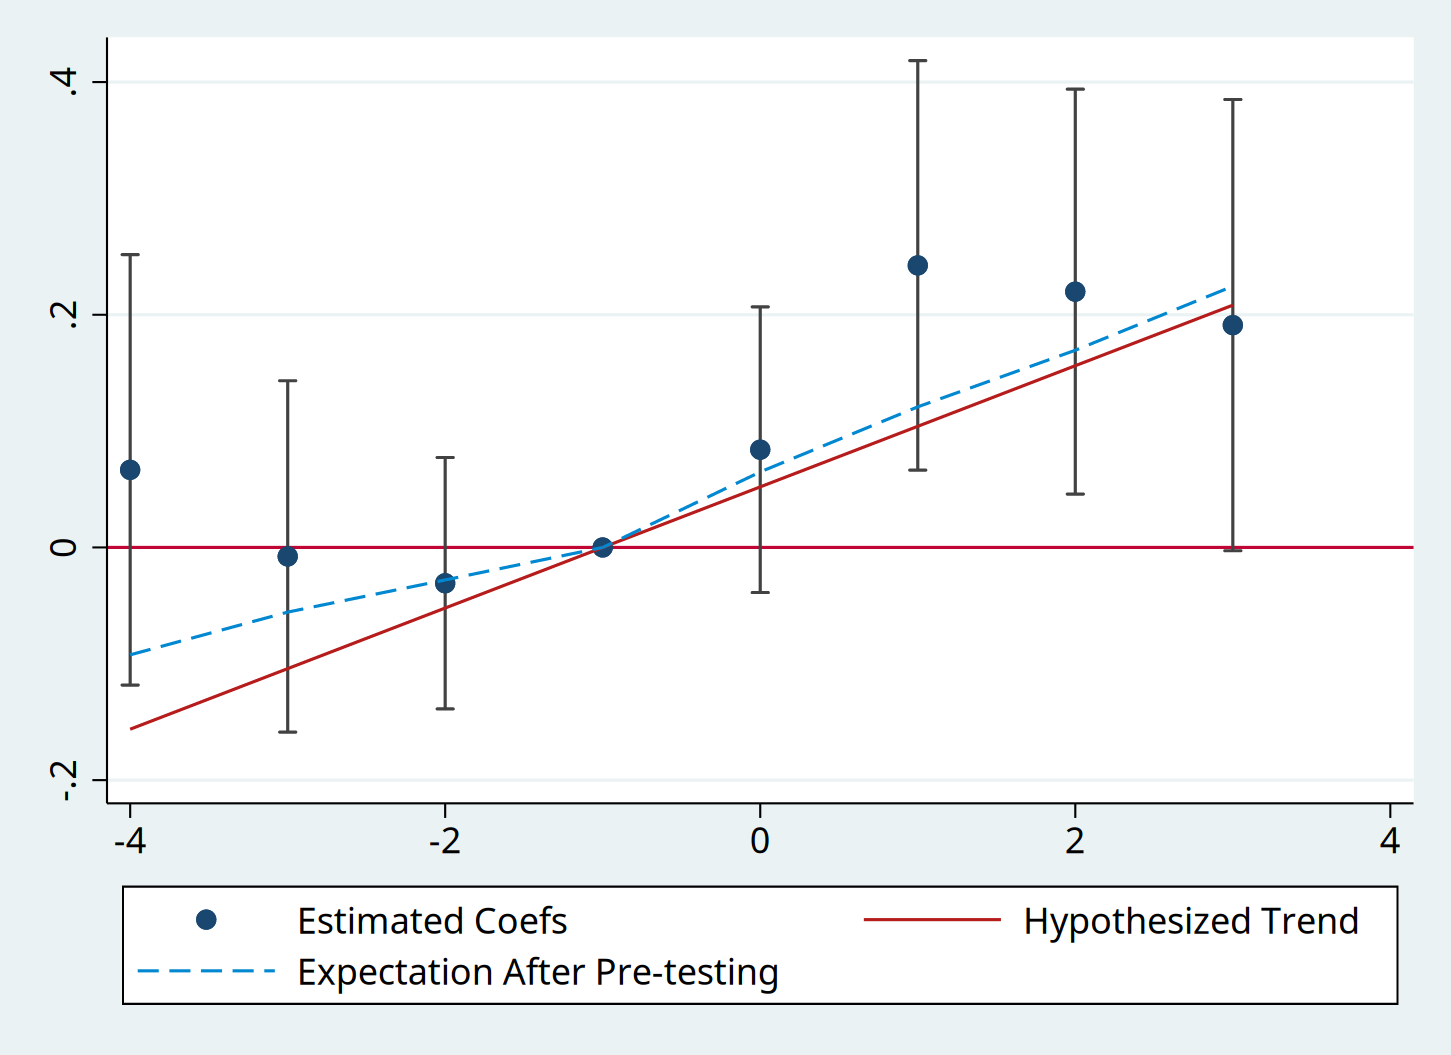
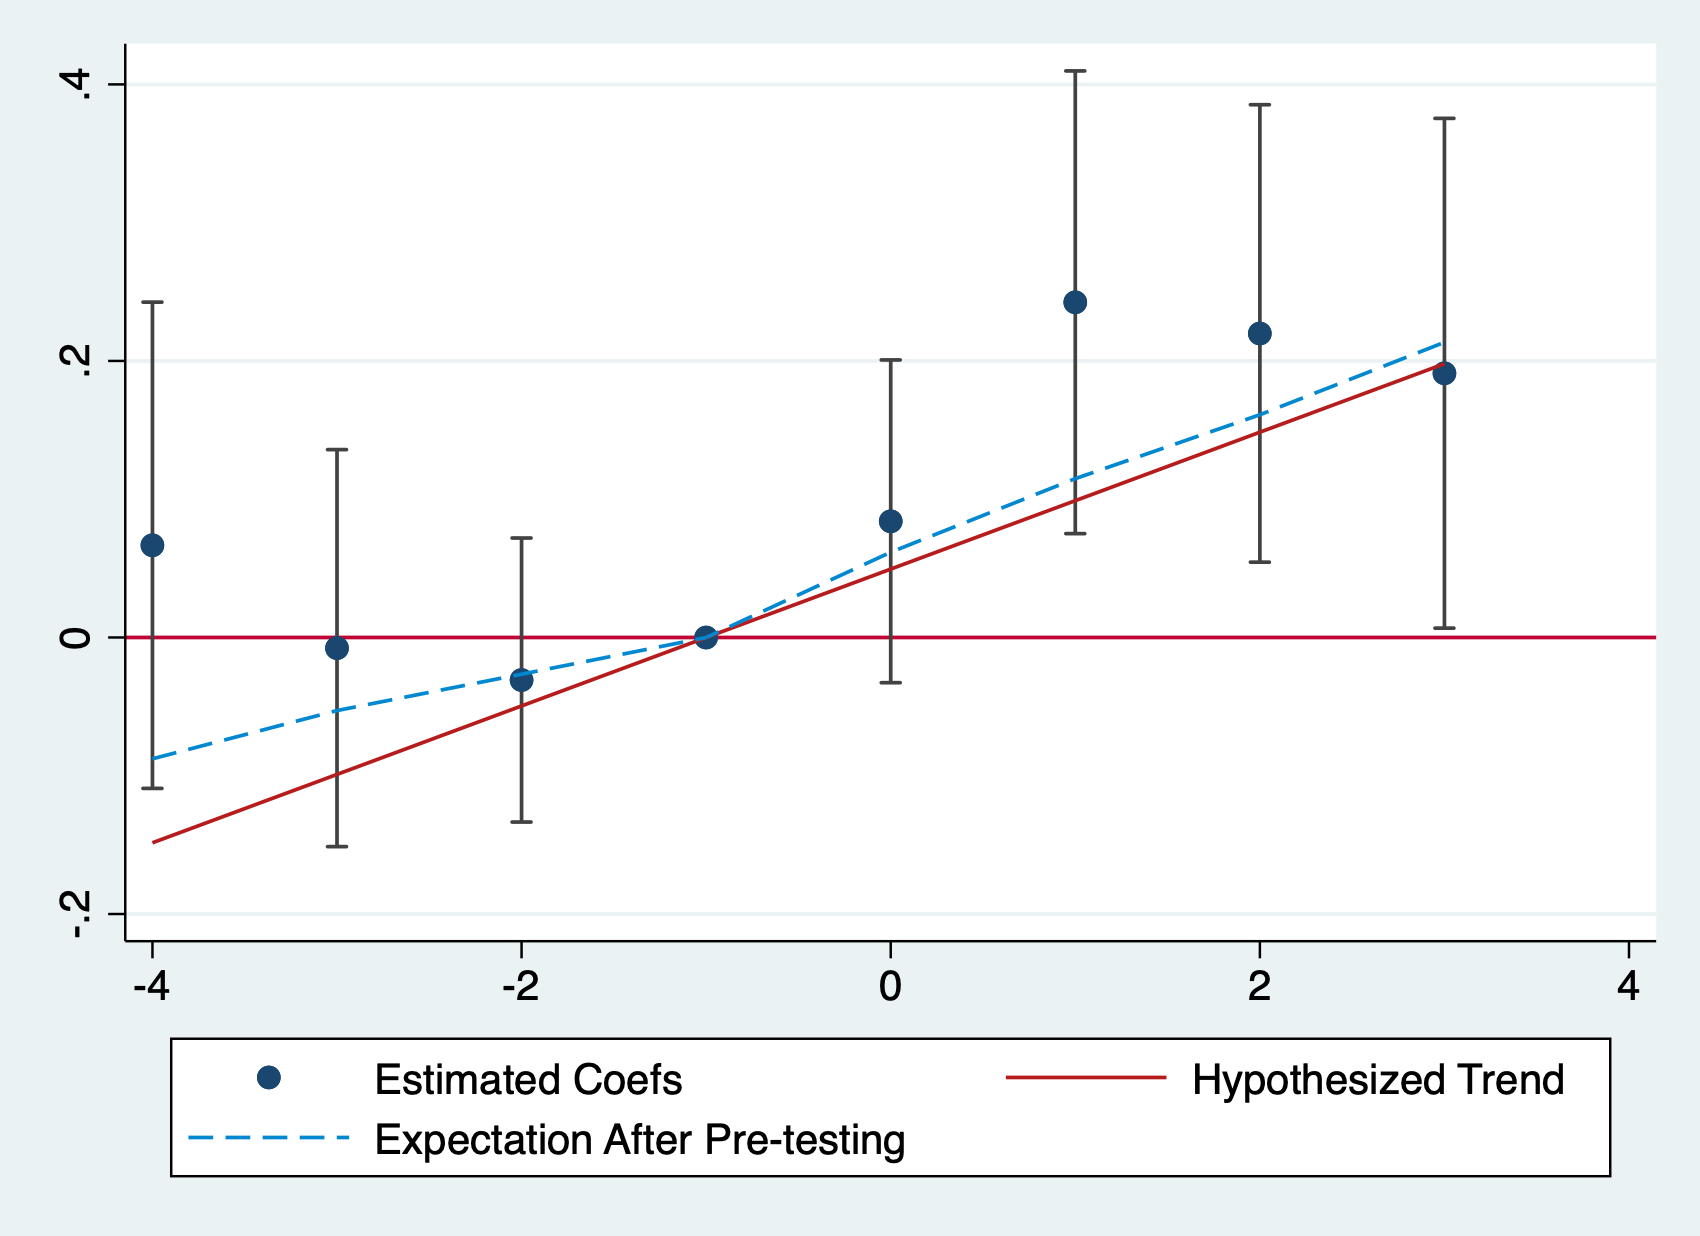
Updated the README to be more intuitive

diff --git a/README.md b/README.md
@@ -40,39 +40,45 @@ this:
 
 ### Load the example data
 
-Next we load the estimation results used for the event-plot, namely the
-coefficients (*beta*), the variance-covariance matrix (*sigma*). In this
-case, these coefficients come from a two-way fixed effects regression,
-but the pretrends package can accommodate an event-study from any
-asymptotically normal estimator, including
-[Callaway and Sant’Anna (2020)](https://www.sciencedirect.com/science/article/pii/S0304407620303948?dgcid=author)
-and [Sun and Abraham (2020)](https://www.sciencedirect.com/science/article/abs/pii/S030440762030378X).
+We first load the dataset used by He and Wang. 
 
 ```stata
-mata {
-    st_matrix("beta",  PreTrendsExampleBeta())
-    st_matrix("sigma", PreTrendsExampleSigma())
-}
-matlist beta'
-*              |        r1
-* -------------+----------
-*           c1 |  .0667031
-*           c2 | -.0077018
-*           c3 | -.0307691
-*           c4 |  .0840307
-*           c5 |  .2424418
-*           c6 |   .219879
-*           c7 |  .1910925
+use "https://media.githubusercontent.com/media/jonathandroth/stata-pretrends/main/data/workfile_AEJ.dta", clear
 ```
+
+We then run their regression specification. 
+
+```stata
+reghdfe l_poor_reg_rate Lead_D4_plus Lead_D3 Lead_D2 D0 Lag_D1 Lag_D2 Lag_D3_plus, absorb(v_id year) cluster(v_id)
+```
+
+which yields the following results
+
+```stata
+             |               Robust
+l_poor_reg~e | Coefficient  std. err.      t    P>|t|     [95% conf. interval]
+-------------+----------------------------------------------------------------
+Lead_D4_plus |   .0667032   .0897108     0.74   0.458    -.1099686    .2433749
+     Lead_D3 |  -.0077018   .0732436    -0.11   0.916     -.151944    .1365404
+     Lead_D2 |  -.0307691   .0523996    -0.59   0.558    -.1339621     .072424
+          D0 |   .0840307   .0595518     1.41   0.159    -.0332475    .2013088
+      Lag_D1 |   .2424418   .0853721     2.84   0.005     .0743146    .4105691
+      Lag_D2 |    .219879    .084391     2.61   0.010     .0536838    .3860741
+ Lag_D3_plus |   .1910925   .0940472     2.03   0.043     .0058809    .3763042
+       _cons |   1.478639   .0771617    19.16   0.000      1.32668    1.630597
+
+```
+
+In this case, these coefficients come from a two-way fixed effects regression using `reghdfe`. However, the `pretrends` package will work with any package that produces an event-study from any
+asymptotically normal estimator, including
+[Callaway and Sant’Anna (2020)](https://www.sciencedirect.com/science/article/pii/S0304407620303948?dgcid=author)
+and [Sun and Abraham (2020)](https://www.sciencedirect.com/science/article/abs/pii/S030440762030378X), so long as the resulting estimates and coefficients are saved in `e(b)` and `e(V)`. If one is using a command that does not export an `e(b)` and `e(V)`, one can instead provide the coefficients and covariance matrix directly via the `beta()` and `sigma()` options.
+
 
 ### Using the package
 
-First, the user must specify the coefficient vector, variance-covariance
-matrix, and the sections therein that correspond to the pre and post periods.
-By default, the package tries to use `e(b)` and `e(V)`, which would be
-populated after most estimation commands.
 
-Second, the user has two options:
+The package has two subcommands:
 
 1. The `power` sub-command calculates the slope of a linear violation
   of parallel trends that a pre-trends test would detect a specified
@@ -84,17 +90,22 @@ Second, the user has two options:
   option, or provide an arbitrary violation of parallel trends via the `delta()` option. 
 
 Let's illustrate the first use case:
+
 ```stata
-pretrends power 0.5, numpre(3) b(beta) v(sigma)
-* Slope for 50% power =  .0520662
+pretrends power 0.5, pre(1/3) post(4/7)
+
+* Slope for 50% power =  .0494932
 
 return list
 * scalars:
-*               r(slope) =  .0520662478209672
+*               r(slope) =  .0494932155202119
 *               r(Power) =  .5
 ```
 
-To visualize the linear trend against which pre-tests have 50 percent power:
+In the command above, the option `pre(1/3)` tells the package that the pre-treatment event-study coefficients are in positions 1 through 3 in our regression results. (The package assumes that the period before the event-study is normalized to zero and omitted from the regression.) Likewise, the option `post(1/4)` tells the package that the post-treatment coefficients are in positions 4 through 7. The results of the command tells us that if there was a linear violation of parallel trends with slope 0.049, then we would have 50% power to detect it (where we say it's "detected" if there is a significant pre-trend coefficient). If we want wanted a different power threshold, say 80%, we would change `power 0.5` to `power 0.8` in the command above.  
+
+
+Next, we illustrate how to visualize violations of parallel trends using the package's second subcommand. For simplicitly, lets visualize the linear trend against which pre-tests have 50 percent power that we just calculated. This is just for illustration --- you can visualize any violation that you want, and should choose an economically relevant one. To do this, we run the command:
 
 ```stata
 pretrends, numpre(3) b(beta) v(sigma) slope(`r(slope)')
@@ -102,7 +113,10 @@ pretrends, numpre(3) b(beta) v(sigma) slope(`r(slope)')
 
 ![Power50](doc/plot50.png)
 
-Note the `coefplot` package is required; if the coefplot package is not
+This tells Stata to visualize a linear violation of parallel trends with slope `r(slope)`, i.e. the value calculated by the previous command (0.049). If you wanted to visualize a linear violation with slope 5, you'd just specify `slope(5)`. The resulting plot super-imposes the conjectured linear violation of parallel trends on the event-plot in red. It also shows in dashed blue what we'd expect the coefficients to look like on average *conditional on not finding a significant pre-trend* if in fact that truth was the hypothesized red line. In the plot above, both the red line and blue line are contained within all of the confidence intervals (with the exception of one pre-period for the red line), so the hypothesized trend seems somewhat plausible. 
+
+
+Note that to create the plot above, the `coefplot` package is required; if the coefplot package is not
 installed or not available, the user can add option `nocoefplot` to
 skip the visualization. In either case the event study data is saved in
 `r()`, along several useful statistics about the power of the pre-test
@@ -111,23 +125,22 @@ against the hypothesized trend.
 ```stata
 * data for visualization
 matlist r(results)
-*              |         t    betahat         lb         ub  deltatrue  meanAft~g
-* -------------+------------------------------------------------------------------
-*           r1 |        -4   .0667031  -.1182677    .251674  -.1561987  -.0923171
-*           r2 |        -3  -.0077018  -.1587197   .1433162  -.1041325  -.0555576
-*           r3 |        -2  -.0307691  -.1388096   .0772715  -.0520662  -.0279117
-*           r4 |        -1          0          0          0          0          0
-*           r5 |         0   .0840307  -.0387567    .206818   .0520662   .0649147
-*           r6 |         1   .2424418   .0664168   .4184668   .1041325   .1208691
-*           r7 |         2    .219879   .0458768   .3938812   .1561987   .1694932
-*           r8 |         3   .1910925  -.0028194   .3850045    .208265   .2245753
+*          r1 |        -4   .0667032  -.1091268   .2425331  -.1484796   -.087755 
+*          r2 |        -3  -.0077018  -.1512567   .1358531  -.0989864   -.052812 
+*          r3 |        -2  -.0307691  -.1334704   .0719323  -.0494932  -.0265324 
+*          r4 |        -1          0          0          0          0          0 
+*          r5 |         0   .0840307  -.0326887     .20075   .0494932   .0617067 
+*          r6 |         1   .2424418   .0751157    .409768   .0989864   .1148959 
+*          r7 |         2    .219879   .0544757   .3852823   .1484796   .1611171 
+*          r8 |         3   .1910925   .0067634   .3754217   .1979729   .2134771 
+
 
 return list
 * scalars:
-*                  r(LR) =  .1057053243787036
-*               r(Bayes) =  .5690176871738699
-*               r(Power) =  .5000000000006959
-*               r(slope) =  .0520662478209672
+*                  r(LR) =  .1016996725963556
+*               r(Bayes) =  .5690176868657252
+*               r(Power) =  .5000000000010103
+*               r(slope) =  .0494932155202119
 *
 * macros:
 *    r(PreTrendsResults) : "PreTrendsResults"
@@ -137,30 +150,25 @@ return list
 *               r(delta) :  1 x 8
 ```
 
+An explanation of the returned results is as follows: 
+
 - **r(results)** The data used to make the event plot. Note the column
   `meanAfterPretesting`, which is also plotted, shows the expected value
   of the coefficients conditional on passing the pre-test under the
-  hypothesized trend.
+  hypothesized trend (i.e. what's shown in the blue dashed line).
 
 - **r(Power)** The probability that we would find a significant pre-trend
   under the hypothesized pre-trend. (This is 0.50, up to numerical
-  precision error, by construction in our example).
+  precision error, by construction in our example). If you hypothesize a different trend, it may be something different.
 
 - **r(BF)** (Bayes Factor) The ratio of the probability of "passing" the
   pre-test under the hypothesized trend relative to under parallel
-  trends.
+  trends. Here, the probability of passing the pre-test under the hypothesized trend is about half as likely (56%) as it is under parallel trends.
 
-- **r(LR)** (Likelihood Ratio) The ratio of the likelihood of the observed
+- **r(LR)** (Likelihood Ratio) The ratio of the likelihood of the observed pre-treatment
   coefficients under the hypothesized trend relative to under parallel
-  trends.
+  trends. Here, the realization of the pre-trends is about 1/10th as likely under the hypothesized trend as under parallel trends.
 
-The package can also compute the above in one step:
-
-```stata
-pretrends, numpre(3) b(beta) v(sigma) power(0.5) nocoefplot
-matlist r(results)
-return list
-```
 
 Last, although our example has focused on a linear violation of parallel
 trends, the package allows the user to input an arbitrary non-linear
@@ -169,7 +177,7 @@ analysis from a quadratic trend.
 
 ```stata
 mata st_matrix("deltaquad", 0.024 * ((-4::3) :- (-1)):^2)
-pretrends, numpre(3) b(beta) v(sigma) deltatrue(deltaquad) coefplot
+pretrends, pre(1/3) post(4/7) deltatrue(deltaquad) coefplot
 ```
 
 ![Power50](doc/plotQuad.png)
@@ -178,21 +186,22 @@ pretrends, numpre(3) b(beta) v(sigma) deltatrue(deltaquad) coefplot
 matlist r(results)
 *              |         t    betahat         lb         ub  deltatrue  meanAft~g
 * -------------+------------------------------------------------------------------
-*           r1 |        -4   .0667031  -.1182677    .251674       .216   .1184861
-*           r2 |        -3  -.0077018  -.1587197   .1433162       .096    .040358
-*           r3 |        -2  -.0307691  -.1388096   .0772715       .024   .0040393
-*           r4 |        -1          0          0          0          0          0
-*           r5 |         0   .0840307  -.0387567    .206818       .024   .0093079
-*           r6 |         1   .2424418   .0664168   .4184668       .096    .072993
-*           r7 |         2    .219879   .0458768   .3938812       .216   .2004382
-*           r8 |         3   .1910925  -.0028194   .3850045       .384   .3617779
+          r1 |        -4   .0667032  -.1091268   .2425331       .216   .1157555 
+          r2 |        -3  -.0077018  -.1512567   .1358531       .096   .0391983 
+          r3 |        -2  -.0307691  -.1334704   .0719323       .024    .003749 
+          r4 |        -1          0          0          0          0          0 
+          r5 |         0   .0840307  -.0326887     .20075       .024   .0089854 
+          r6 |         1   .2424418   .0751157    .409768       .096   .0723966 
+          r7 |         2    .219879   .0544757   .3852823       .216   .2000759 
+          r8 |         3   .1910925   .0067634   .3754217       .384   .3612036 
+
+
 
 return list
 * scalars:
-*                  r(LR) =  .4332635208743188
-*               r(Bayes) =  .3841447004284795
-*               r(Power) =  .6624492444726371
-*               r(slope) =  .
+			  r(LR) =  .3962795305253372
+              r(Bayes) =  .3384376031301103
+              r(Power) =  .7026124047271576
 *
 * macros:
 *    r(PreTrendsResults) : "PreTrendsResults"
